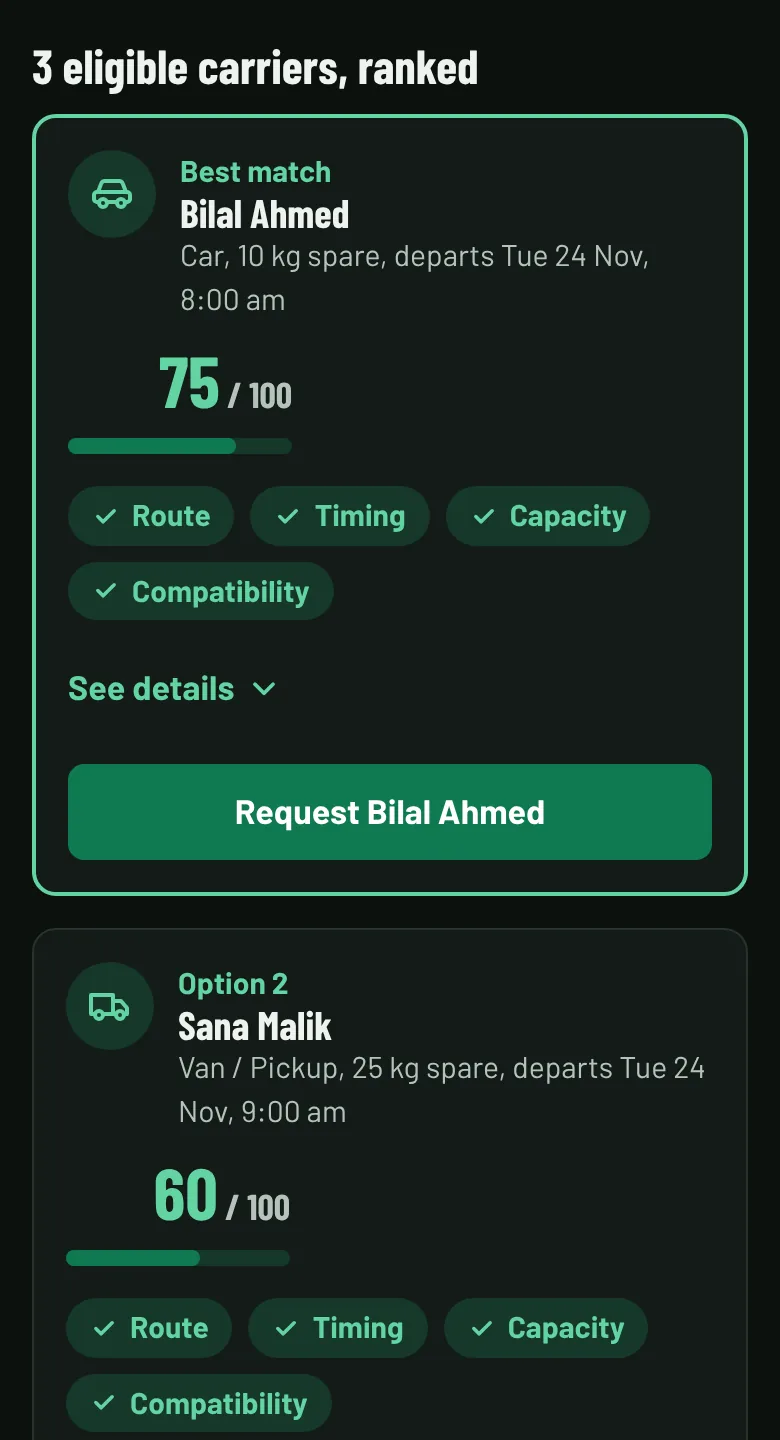
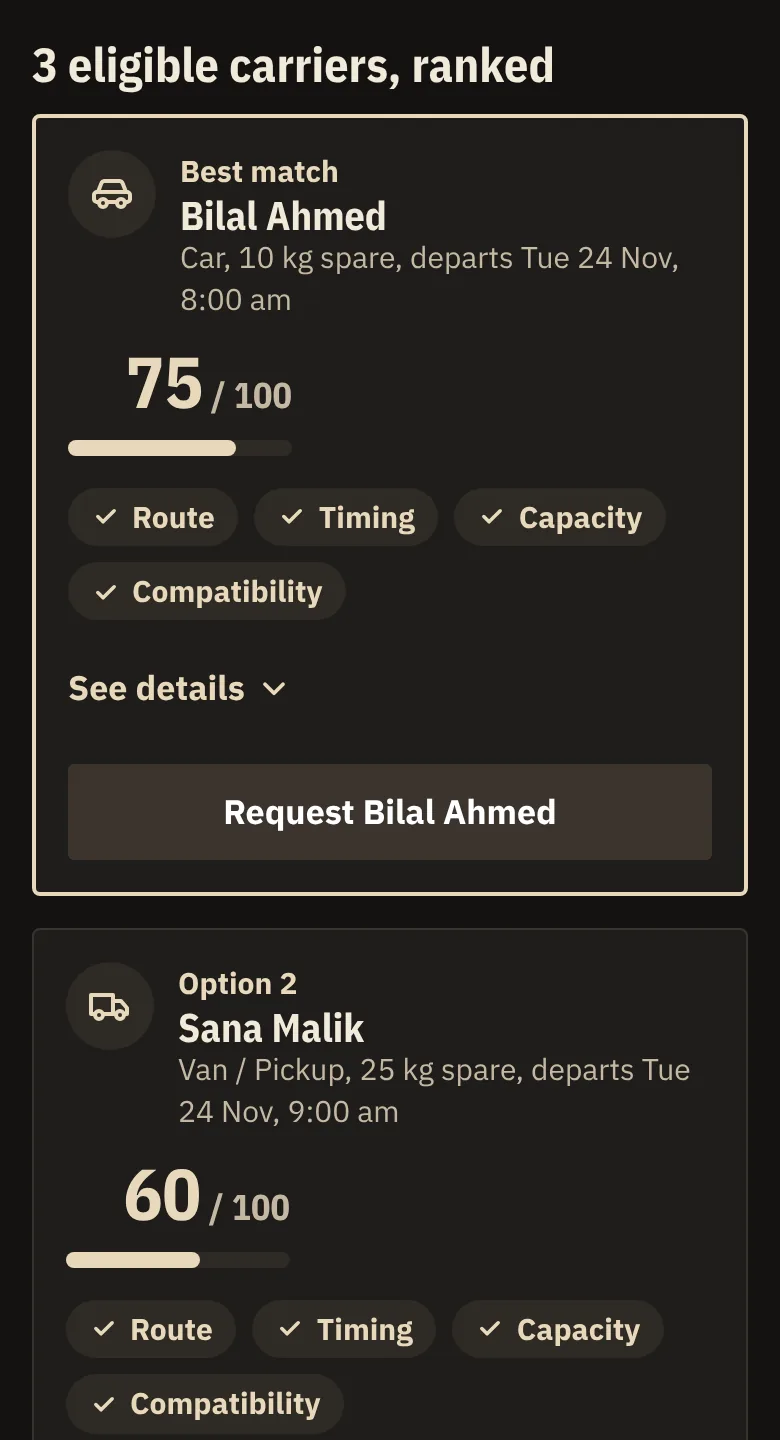
Cargo label redesign: kraft, label black and fragile-tape red (60-30-10), IBM Plex, square corners
Claude-Session: https://claude.ai/code/session_01KMX8YgVyAEEbRayQVQssk2

diff --git a/src/index.css b/src/index.css
@@ -5,37 +5,43 @@
    Defining a colour here creates Tailwind classes for it automatically,
    e.g. --color-brand gives us bg-brand, text-brand-ink and border-brand-ink.   */
 @theme {
-  --color-brand: #0B6B43;        /* motorway-sign green: main brand colour */
-  --color-brand-ink: #0B6B43;    /* green used for text and outlines */
-  --color-brand-dark: #084F32;   /* pressed / hover state */
-  --color-route-2: #3FA37A;      /* second route colour on the Home map */
-  --color-route-3: #A3D2BC;      /* third route colour on the Home map */
-  --color-on-hold: #12241B;      /* dark text on an amber background (both themes) */
-  --color-brand-tint: #E3F1E9;   /* soft green background */
-  /* A small palette: white page, near-black text, motorway green for big
-     blocks and actions, amber only for money that is held or waiting. */
-  --color-ink: #0B1A13;          /* main text: near-black with a hint of green */
-  --color-muted: #46524C;        /* secondary text (dark enough to read easily in a thin font) */
-  --color-paper: #FFFFFF;        /* page background */
-  --color-surface: #FFFFFF;      /* cards, form fields, menus */
-  --color-sunk: #F1F4F2;         /* panels set into a card (accept rows, map backdrop) */
-  --color-line: #DCE2DE;         /* thin dividing lines and borders */
-  --color-hold: #E0A100;         /* road-marking amber: payment held, warnings */
-  --color-hold-ink: #7A5600;     /* amber dark enough to read as text */
-  --color-hold-tint: #FBF1D3;
-  /* Secondary text on the green header, hero and price band. A fixed colour,
-     not see-through white, so its contrast stays 4.5:1 or more. */
-  --color-on-brand-soft: #E2EDE8;
-  --color-fail: #B83228;         /* signal red: failed rule, dispute */
-  --color-fail-tint: #FBE6E3;
+  /* Cargo label: the page is brown kraft paper (60%), blocks and actions are
+     printed label black (30%), and "fragile tape" red marks the few things
+     that need attention (10%): the saving, money held, the current page. */
+  --color-paper: #E2D3B6;        /* kraft paper: page background (60%) */
+  --color-surface: #F6EFE1;      /* label stock: cards, form fields, menus */
+  --color-sunk: #D6C4A3;         /* panels set into a card (accept rows, map backdrop) */
+  --color-line: #B9A385;         /* thin dividing lines and borders */
+  --color-ink: #1C1A17;          /* main text: printing ink */
+  --color-muted: #4E4436;        /* secondary text */
+  --color-brand: #1C1A17;        /* label black: header, buttons, bands (30%) */
+  --color-brand-ink: #1C1A17;    /* black used for text and outlines */
+  --color-brand-dark: #000000;   /* pressed / hover state */
+  --color-brand-tint: #D3C3A4;   /* soft background behind "good" badges */
+  --color-route-2: #6B5B45;      /* second route colour on the Home map */
+  --color-route-3: #A8957A;      /* third route colour on the Home map */
+  --color-on-brand-soft: #E9E0CF;/* secondary text on black blocks (4.5:1 or more) */
+  --color-hold: #D7261E;         /* fragile-tape red: the 10% accent, money held */
+  --color-on-hold: #FFFFFF;      /* text on the red */
+  --color-hold-ink: #A51C15;     /* red dark enough to read as text */
+  --color-hold-tint: #F1D2C6;
+  --color-fail: #7A1810;         /* oxblood: failed rule, dispute (darker than the accent) */
+  --color-fail-tint: #E8C4B8;
 
-  /* Small print is a little larger than Tailwind's defaults (14px and 12px),
-     because Barlow's thin strokes are harder to read at small sizes. */
+  /* Corners: nearly square, like a printed label. */
+  --radius-md: 3px;
+  --radius-lg: 3px;
+  --radius-xl: 4px;
+  --radius-2xl: 4px;
+
+  /* Small print a little larger than Tailwind's defaults (14px and 12px). */
   --text-sm: 0.9375rem;
   --text-xs: 0.8125rem;
 
-  --font-display: "Barlow Condensed", "Arial Narrow", sans-serif;
-  --font-body: "Barlow", "Segoe UI", sans-serif;
+  /* IBM Plex: plain, industrial lettering, like printing on a shipping label.
+     The condensed cut is for headings, the normal cut for everything else. */
+  --font-display: "IBM Plex Sans Condensed", "Arial Narrow", sans-serif;
+  --font-body: "IBM Plex Sans", "Segoe UI", sans-serif;
 }
 
 /* ---- Base styles ---------------------------------------------------- */
@@ -49,76 +55,27 @@
   color-scheme: light;
 }
 :root[data-theme="dark"] {
+  /* Dark: a black label with kraft-coloured printing. */
   color-scheme: dark;
-  --color-brand: #0F7A50;
-  --color-brand-ink: #63D3A2;
-  --color-brand-dark: #0A5C3C;
-  --color-brand-tint: #16382A;
-  --color-route-2: #2F9B70;
-  --color-route-3: #1F5C44;
-  --color-ink: #EEF3F0;
-  --color-muted: #B4C4BB;
-  --color-paper: #0B110E;
-  --color-surface: #131B17;
-  --color-sunk: #0D1411;
-  --color-line: #28342E;
-  --color-hold-ink: #F0C75A;
-  --color-hold-tint: #3A2F12;
-  --color-fail: #F07A6A;
-  --color-fail-tint: #3D1D19;
-  --color-on-brand-soft: #EEF6F3;
+  --color-paper: #141311;
+  --color-surface: #1F1D1A;
+  --color-sunk: #181715;
+  --color-line: #39342D;
+  --color-ink: #F1E9DA;
+  --color-muted: #C4B8A3;
+  --color-brand: #3B352D;
+  --color-brand-ink: #E8D9BC;
+  --color-brand-dark: #4A4339;
+  --color-brand-tint: #2E2A24;
+  --color-route-2: #8A7759;
+  --color-route-3: #4A4033;
+  --color-on-brand-soft: #EFE6D6;
+  --color-hold: #E5392F;
+  --color-hold-ink: #FF8F85;
+  --color-hold-tint: #3D1C18;
+  --color-fail: #FF9E8F;
+  --color-fail-tint: #3B1F1A;
 }
-/* ---- STYLE OPTIONS (preview only) ------------------------------------
-   Three looks for the redesign, switched by <html data-style="...">, which
-   only the preview screenshots set. 60% = paper, 30% = brand, 10% = hold. */
-/* A. Terminal board: signage navy, departure-board orange, Archivo. */
-:root[data-style="terminal"] {
-  --color-paper: #F4F5F3; --color-surface: #FFFFFF; --color-sunk: #E7EAE6; --color-line: #D2D7D1;
-  --color-ink: #101820; --color-muted: #4A5560;
-  --color-brand: #14305A; --color-brand-ink: #14305A; --color-brand-dark: #0C2242; --color-brand-tint: #E2E8F1;
-  --color-route-2: #4C6E9C; --color-route-3: #A9BBD3; --color-on-brand-soft: #DCE4EF;
-  --color-hold: #F26B1D; --color-on-hold: #101820; --color-hold-ink: #A3410A; --color-hold-tint: #FDE6D6;
-  --font-display: "Archivo Variable", "Arial Narrow", sans-serif;
-  --font-body: "Archivo Variable", "Segoe UI", sans-serif;
-}
-:root[data-style="terminal"][data-theme="dark"] {
-  --color-paper: #0E141C; --color-surface: #16202C; --color-sunk: #101821; --color-line: #2A3646;
-  --color-ink: #ECEFF3; --color-muted: #AAB6C4;
-  --color-brand: #1E4479; --color-brand-ink: #8DB4EC; --color-brand-dark: #163562; --color-brand-tint: #182A42;
-  --color-route-2: #3C6AA6; --color-route-3: #243E60; --color-on-brand-soft: #E3EAF4;
-  --color-hold-ink: #FF9C5E; --color-hold-tint: #3A2213;
-}
-:root[data-style="terminal"] :is(h1, h2, h3, .font-display) { font-stretch: 72%; font-weight: 800; }
-
-/* B. Cargo label: kraft paper, label black, "fragile" red, IBM Plex. */
-:root[data-style="cargo"] {
-  --color-paper: #E2D3B6; --color-surface: #F6EFE1; --color-sunk: #D6C4A3; --color-line: #B9A385;
-  --color-ink: #1C1A17; --color-muted: #4E4436;
-  --color-brand: #1C1A17; --color-brand-ink: #1C1A17; --color-brand-dark: #000000; --color-brand-tint: #D3C3A4;
-  --color-route-2: #6B5B45; --color-route-3: #A8957A; --color-on-brand-soft: #E9E0CF;
-  --color-hold: #D7261E; --color-on-hold: #FFFFFF; --color-hold-ink: #A51C15; --color-hold-tint: #F1D2C6;
-  --color-fail: #8E1B12; --color-fail-tint: #EBC9BE;
-  --font-display: "IBM Plex Sans Condensed", "Arial Narrow", sans-serif;
-  --font-body: "IBM Plex Sans", "Segoe UI", sans-serif;
-  --radius-md: 3px; --radius-lg: 3px; --radius-xl: 4px; --radius-2xl: 4px;
-}
-:root[data-style="cargo"][data-theme="dark"] {
-  --color-paper: #1A1713; --color-surface: #24201A; --color-sunk: #1E1A15; --color-line: #3A3329;
-  --color-ink: #F1E9DA; --color-muted: #C2B49C;
-  --color-brand: #2E2922; --color-brand-ink: #E8D9BC; --color-brand-dark: #3A342B; --color-brand-tint: #2E2820;
-  --color-route-2: #8A7759; --color-route-3: #4A4033; --color-on-brand-soft: #EFE6D6;
-  --color-hold: #E5392F; --color-hold-ink: #FF8A80; --color-hold-tint: #3D1C18;
-  --color-fail: #FF7B70; --color-fail-tint: #3D1D19;
-}
-
-/* C. Motorway + truck art: today's green, a truck-art magenta accent, Barlow. */
-:root[data-style="truckart"] {
-  --color-hold: #D4006F; --color-on-hold: #FFFFFF; --color-hold-ink: #A8005A; --color-hold-tint: #FBE0EE;
-}
-:root[data-style="truckart"][data-theme="dark"] {
-  --color-hold: #F0379A; --color-on-hold: #20000F; --color-hold-ink: #FF7FC0; --color-hold-tint: #3D1229;
-}
-
 body {
   background: var(--color-paper);
   color: var(--color-ink);

diff --git a/src/components/RouteLine.jsx b/src/components/RouteLine.jsx
@@ -51,7 +51,7 @@ function Tracker({ stops, todo, reached, showCurrent, problem }) {
         <div className={`road-fill absolute inset-x-0 top-1/2 h-1.5 -translate-y-1/2 rounded-full ${problem ? 'bg-fail/60' : 'bg-hold/70'}`}
           style={{ clipPath: cutAt(current > 0 ? current : 0, count) }} />
         {/* Green road: from the start to the last completed stop */}
-        <div className="road-fill absolute inset-x-0 top-1/2 h-1.5 -translate-y-1/2 rounded-full bg-brand"
+        <div className="road-fill absolute inset-x-0 top-1/2 h-1.5 -translate-y-1/2 rounded-full bg-brand-ink"
           style={{ clipPath: cutAt(Math.max(lastDone, 0), count) }} />
 
         {stops.map((stop, i) => {
@@ -109,9 +109,9 @@ export default function RouteLine({ origin, destination, stops, todo, reached = 
       {stops ? (
         <Tracker stops={stops} todo={todo} reached={reached} showCurrent={showCurrent} problem={problem} />
       ) : (
-        /* Plain route: a green road with a dashed centre line and two end stops */
-        <div className="relative mt-2 h-4 rounded-full bg-brand" aria-hidden="true">
-          <div className="absolute inset-x-4 top-1/2 -translate-y-1/2 border-t-2 border-dashed border-white/70" />
+        /* Plain route: a road with a dashed centre line and two end stops */
+        <div className="relative mt-2 h-4 rounded-full bg-brand-ink" aria-hidden="true">
+          <div className="absolute inset-x-4 top-1/2 -translate-y-1/2 border-t-2 border-dashed border-surface/70" />
           <span className="absolute left-0 top-0 size-4 rounded-full border-[3px] border-brand-ink bg-surface" />
           <span className="absolute right-0 top-0 size-4 rounded-full border-[3px] border-brand-ink bg-surface" />
         </div>

diff --git a/src/pages/Home.jsx b/src/pages/Home.jsx
@@ -156,8 +156,8 @@ function FadeInPhoto({ className = '', ...props }) {
 function PhotoCredit({ author, licence, licenceUrl, source, className = '', tone = 'text-muted' }) {
   return (
     <p className={`text-xs ${tone} ${className}`}>
-      Photo: {author}, <a href={licenceUrl} rel="noopener noreferrer">{licence}</a>, via{' '}
-      <a href={source} rel="noopener noreferrer">Wikimedia Commons</a> (cropped).
+      Photo: {author}, <a href={licenceUrl} rel="noopener noreferrer" className="underline">{licence}</a>, via{' '}
+      <a href={source} rel="noopener noreferrer" className="underline">Wikimedia Commons</a> (cropped).
     </p>
   )
 }
@@ -251,11 +251,11 @@ export default function Home({ profile, setProfile }) {
 
       {/* Closing: the same two choices as buttons, over a photo of the M-2 */}
       <section className="pb-4">
-        <div className="relative overflow-hidden rounded-2xl bg-[#0B1A13] text-white">
+        <div className="relative overflow-hidden rounded-2xl bg-black text-white">
           <FadeInPhoto src={motorwayPhoto} width="1280" height="960" loading="lazy" alt=""
             className="absolute inset-0 size-full object-cover" />
           {/* Darkens the photo so the white text stays readable */}
-          <div className="absolute inset-0 bg-[#0B1A13]/65" aria-hidden="true" />
+          <div className="absolute inset-0 bg-black/65" aria-hidden="true" />
           <div className="relative px-5 py-20 sm:px-12 sm:py-28">
             <h2 className="max-w-3xl text-balance text-5xl font-bold leading-[0.95] sm:text-7xl">
               The trip is happening anyway

diff --git a/src/pages/Dashboard.jsx b/src/pages/Dashboard.jsx
@@ -10,7 +10,7 @@ import RouteCodes from '../components/RouteCodes.jsx'
 const STATUS_ORDER = [STATUS.FOUND, STATUS.MATCHED, STATUS.DELIVERED,
   STATUS.RETRYING, STATUS.FLAGGED, STATUS.DISPUTED, STATUS.CANCELLED]
 // Bar colour per status family (same families as the status badges).
-const BAR = { good: 'bg-brand', waiting: 'bg-hold', bad: 'bg-fail' }
+const BAR = { good: 'bg-brand-ink', waiting: 'bg-hold', bad: 'bg-fail' }
 // The road on a delivery card: its colour matches the status badge beside
 // it, and it fills as far as the parcel has got. A delivery that went wrong
 // (disputed, refunded, declined) shows the whole road in red.
@@ -39,7 +39,7 @@ function CapacityMeter({ value }) {
         <div className="absolute inset-y-[-4px] rounded-md border-2 border-dashed border-brand-ink/70"
           style={{ left: `${TARGET_LOW}%`, width: `${TARGET_HIGH - TARGET_LOW}%` }} />
         {/* Value */}
-        <div className="h-4 rounded-full bg-brand" style={{ width: `${Math.min(100, value)}%` }} />
+        <div className="h-4 rounded-full bg-brand-ink" style={{ width: `${Math.min(100, value)}%` }} />
       </div>
       <div className="mt-1 flex justify-between text-sm text-muted" aria-hidden="true">
         <span>0%</span>

diff --git a/src/main.jsx b/src/main.jsx
@@ -3,17 +3,10 @@ import { StrictMode } from 'react'
 import { createRoot } from 'react-dom/client'
 
 // Fonts are bundled with the app (not loaded from the internet), so they work offline.
-// Barlow is modelled on road-sign lettering: the condensed cut is used for
-// headings, the regular cut for everything else. Both have plain zeros.
-import '@fontsource/barlow-condensed/600.css'
-import '@fontsource/barlow-condensed/700.css'
-import '@fontsource/barlow/400.css'
-import '@fontsource/barlow/500.css'
-import '@fontsource/barlow/700.css'
-// Preview only: fonts for the redesign options (unused ones are removed after the pick).
-import '@fontsource-variable/archivo/wdth.css'
+// IBM Plex: the condensed cut for headings, the normal cut for text.
 import '@fontsource/ibm-plex-sans/400.css'
 import '@fontsource/ibm-plex-sans/700.css'
+import '@fontsource/ibm-plex-sans-condensed/600.css'
 import '@fontsource/ibm-plex-sans-condensed/700.css'
 
 import './index.css'

diff --git a/src/components/HeroMap.jsx b/src/components/HeroMap.jsx
@@ -15,7 +15,7 @@ const ROUTES = [
   { d: 'M70 340 H340', colour: 'var(--color-route-3)' },                     // Quetta - Multan
   { d: 'M290 290 H390 L440 240', colour: 'var(--color-route-2)' },           // Faisalabad - Lahore
   { d: 'M220 80 V220 L340 340', colour: 'var(--color-route-2)' },            // Islamabad - Rawalpindi - Faisalabad - Multan
-  { d: 'M60 80 H220 L300 160 H440 V240 L240 440 H130', colour: 'var(--color-brand)' }, // Peshawar ... Karachi
+  { d: 'M60 80 H220 L300 160 H440 V240 L240 440 H130', colour: 'var(--color-brand-ink)' }, // Peshawar ... Karachi
 ]
 
 // The demo route, drawn on top as a road with a dashed centre line.

diff --git a/src/components/CityMap.jsx b/src/components/CityMap.jsx
@@ -35,7 +35,7 @@ export default function CityMap({ origin, destination }) {
         {hasRoute && (
           <>
             <line x1={from.x} y1={from.y} x2={to.x} y2={to.y}
-              stroke="var(--color-brand)" strokeWidth="12" strokeLinecap="round" />
+              stroke="var(--color-brand-ink)" strokeWidth="12" strokeLinecap="round" />
             <line x1={from.x} y1={from.y} x2={to.x} y2={to.y}
               stroke="white" strokeWidth="2" strokeDasharray="6 6" opacity="0.75" />
           </>

diff --git a/src/pages/About.jsx b/src/pages/About.jsx
@@ -90,7 +90,7 @@ export default function About() {
       <Topic title="Photos and fonts">
         <p>
           The two photos on the Home page are from Wikimedia Commons under CC BY-SA licences,
-          credited under each photo. The fonts, Barlow and Barlow Condensed, are free under the
+          credited under each photo. The fonts, IBM Plex Sans and IBM Plex Sans Condensed, are free under the
           SIL Open Font License.
         </p>
       </Topic>

diff --git a/src/pages/Matches.jsx b/src/pages/Matches.jsx
@@ -24,7 +24,7 @@ function ScoreBadge({ total }) {
       </p>
       <div className="ml-auto mt-2 h-2 w-28 rounded-full bg-brand-tint" role="img"
         aria-label={`Score ${rounded} out of 100`}>
-        <div className="h-2 rounded-full bg-brand" style={{ width: `${Math.min(100, total)}%` }} />
+        <div className="h-2 rounded-full bg-brand-ink" style={{ width: `${Math.min(100, total)}%` }} />
       </div>
     </div>
   )

diff --git a/BUILD_LOG.md b/BUILD_LOG.md
@@ -1038,3 +1038,32 @@ fees, licensed photos and fonts, alt text and contrast. Four needed work:
   Dashboard.
 - **Checked:** all 12 tests pass, and axe is clean in both themes (the About
   page included).
+
+## Stage 39: "cargo label" redesign
+
+Brief: redesign only the look so it does not read as AI-generated, using a
+60-30-10 colour scheme and the feel of a practical Pakistani logistics brand
+(bus terminal signs, cargo labels), with strong plain type and left-aligned
+layouts. Three options were previewed with screenshots (Terminal board, Cargo
+label, Motorway + truck art), and the team chose **Cargo label**.
+
+- **Colour, 60-30-10.** 60%: kraft paper `#E2D3B6` for the page. 30%: label
+  black `#1C1A17` for the header, buttons, price band, parcel pass and photo
+  panel. 10%: "fragile tape" red `#D7261E` for the saving badge, money held,
+  the current page and focus rings. Errors and disputes use a darker oxblood
+  `#7A1810`, so they are not confused with the accent.
+- **Dark mode:** a black label with kraft-coloured printing. Bars, routes and
+  map lines use the ink colour, so they stay visible in both themes.
+- **Type:** IBM Plex Sans Condensed for headings and IBM Plex Sans for text
+  (SIL Open Font License, bundled with the site). Barlow and the preview-only
+  Archivo were removed from `package.json`.
+- **Shape:** nearly square corners (3–4px), like a printed label.
+- **Layout:** the closing panel is left-aligned, and the "Already on the
+  road" panel uses the 30% colour.
+- **Also updated:** the "How it works" phone screenshots were retaken in the
+  new style, and photo credit links are underlined (they need to stand out
+  on the black panel).
+- **Not changed:** logic, data, webhooks, the AI check, rules, pricing,
+  statuses, sign-in and tests.
+- **Checked:** all 12 tests pass, axe is clean on all 8 pages in both themes,
+  and there are no console errors.
